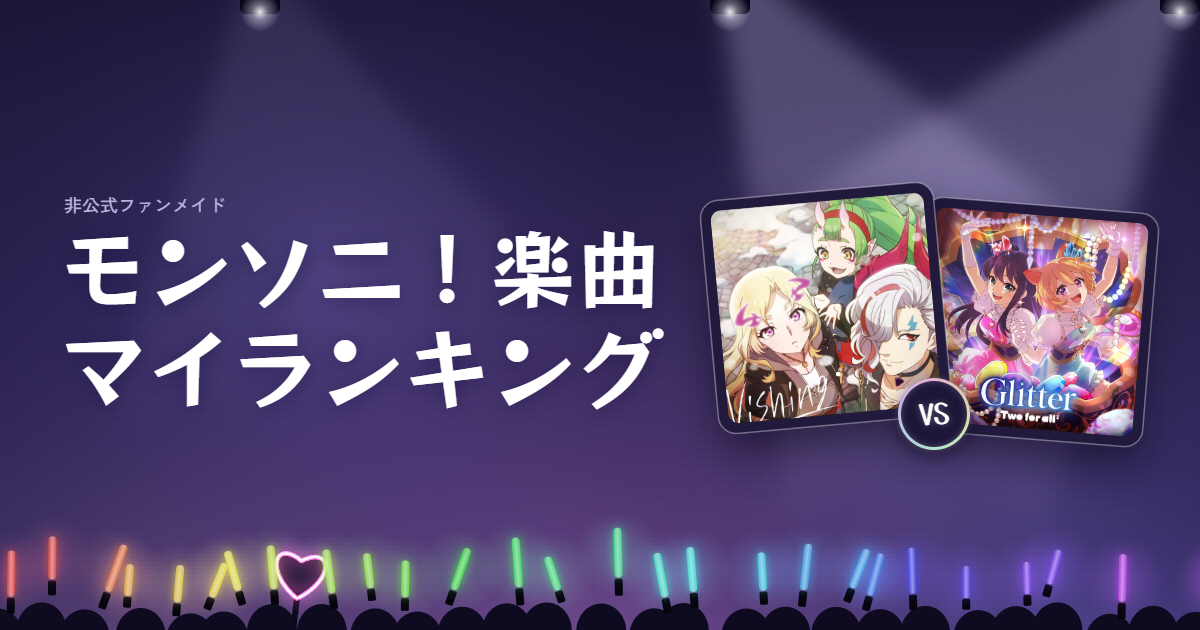
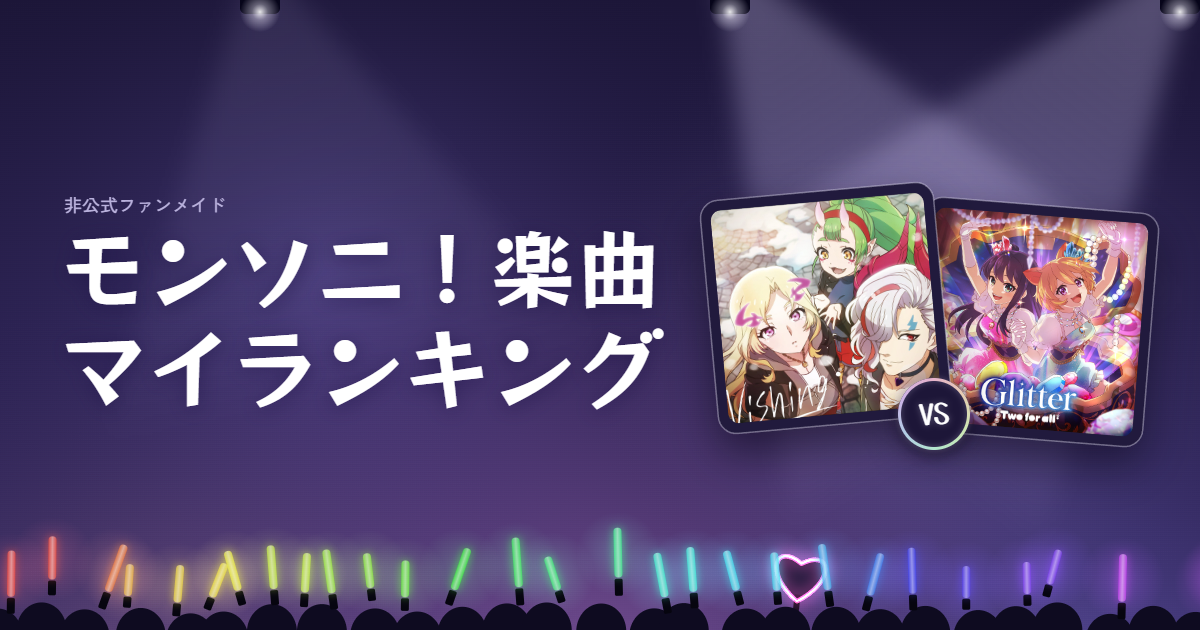
サムネイルのハートのうちわを右側3分の1へ、カードの版番号を3に
- og.png: うちわを右寄り（横 約800px）に移し、左側には普通のペンライトを戻した
- og:image を og.png?v=3、シェアURLを ?c=3 にして、X に新しい画像を読み直させる

Changed region(s): [[0.5858, 0.8444, 0.74, 0.9651], [0.2158, 0.8746, 0.2775, 0.9651]]

diff --git a/index.html b/index.html
@@ -12,7 +12,7 @@
   <meta property="og:type" content="website">
   <meta property="og:title" content="モンソニ！楽曲マイランキング">
   <meta property="og:description" content="あなただけのモンソニ！TOP10セトリをつくろう。">
-  <meta property="og:image" content="https://unon7141.github.io/Monsoni-My-Ranking/og.png?v=2">
+  <meta property="og:image" content="https://unon7141.github.io/Monsoni-My-Ranking/og.png?v=3">
   <meta name="twitter:card" content="summary_large_image">
   <link rel="icon" href="favicon.svg" type="image/svg+xml">
   <link rel="preconnect" href="https://fonts.googleapis.com">
@@ -247,6 +247,6 @@
   <script src="js/songs.js?v=1"></script>
   <script src="js/engine.js?v=1"></script>
   <script src="js/share.js?v=2"></script>
-  <script src="js/app.js?v=7"></script>
+  <script src="js/app.js?v=8"></script>
 </body>
 </html>

diff --git a/js/app.js b/js/app.js
@@ -656,7 +656,7 @@
 
   // シェアするURL。X はカードをURLごとにキャッシュするので、og.png を差し替えたら
   // index.html の og.png?v= と一緒にこの番号も上げる（新しいURLとして読み直させる）
-  const CARD_VERSION = 2;
+  const CARD_VERSION = 3;
   function shareUrl() {
     const url = siteUrl();
     return url ? `${url}?c=${CARD_VERSION}` : "";
